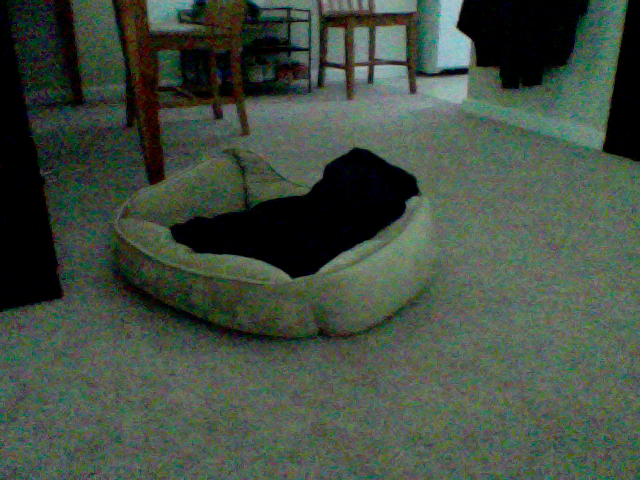
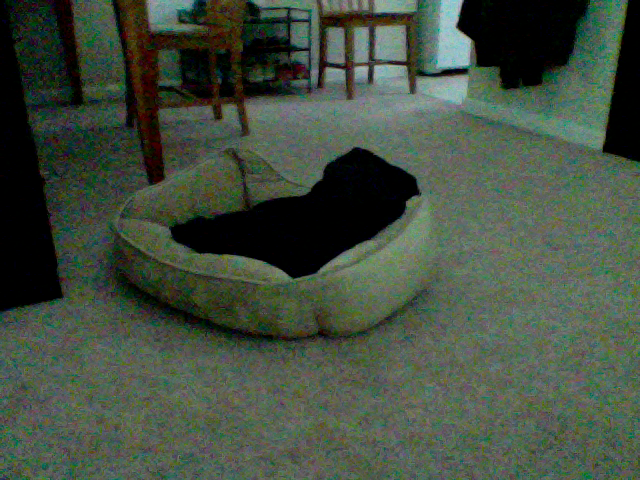
update at Month05Day09Time11:35

diff --git a/index.html b/index.html
@@ -39,8 +39,8 @@
       <!-- Example row of columns -->
       <div class="row">
         <div class="col-md-4">
-	<p>This picture was updated at Month05Day09Time11:34</p>
-		<img src="10_pic.png" />
+	<p>This picture was updated at Month05Day09Time11:35</p>
+		<img src="8_pic.png" />
         </div>
       </div>
 
